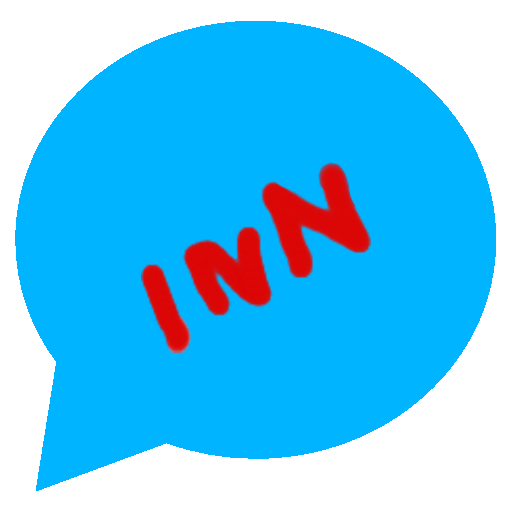
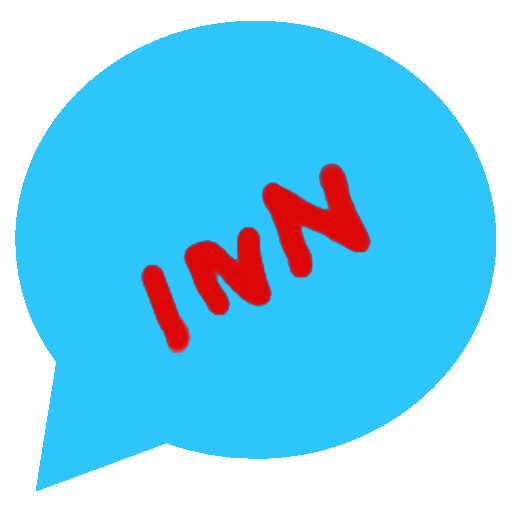
to pull

diff --git a/src/pages/Home.jsx b/src/pages/Home.jsx
@@ -376,7 +376,7 @@ class Home extends React.Component {
                 <path
                   ref={this.blob1Ref}
                   d="M130.3 -177.5C162.6 -155.8 178.3 -109.4 187.9 -64.7C197.5 -19.9 201 23.3 191 64.5C181 105.8 157.5 145.1 123.4 165.3C89.3 185.5 44.7 186.5 -1.9 189.1C-48.4 191.6 -96.8 195.7 -129.3 175C-161.8 154.3 -178.4 108.8 -184.5 65.7C-190.5 22.6 -186.1 -18.2 -175 -58.3C-164 -98.4 -146.4 -137.8 -116.1 -160.1C-85.8 -182.4 -42.9 -187.7 3 -191.9C49 -196.1 98 -199.2 130.3 -177.5"
-                  fill="#10729c"
+                  fill="#00567A"
                 ></path>
               </g>
               <g transform="translate(247.56402926342417 258.2278953128172)">
@@ -384,7 +384,7 @@ class Home extends React.Component {
                   ref={this.blob2Ref}
                   style={{ visibility: 'hidden' }}
                   d="M118 -161.2C155.2 -135.3 189.4 -104 203.4 -65.1C217.5 -26.2 211.5 20.3 198.7 66.1C185.9 111.9 166.4 157.1 132.2 177.2C98 197.3 49 192.4 2.6 188.8C-43.7 185.1 -87.4 182.8 -123.7 163.3C-160 143.9 -188.9 107.3 -200.5 66.4C-212.1 25.4 -206.4 -19.9 -190.9 -60.4C-175.5 -100.9 -150.4 -136.6 -116.9 -163.7C-83.5 -190.9 -41.7 -209.4 -0.7 -208.5C40.4 -207.6 80.7 -187.1 118 -161.2"
-                  fill="#10729c"
+                  fill="#00567A"
                 ></path>
               </g>
             </svg>
@@ -406,12 +406,12 @@ class Home extends React.Component {
                 <div className="floatingLogoSection">
                   <img alt="logoFloating" src={logo}></img>
                   <div className="floatingButtons">
-                    <Button
+                    <Button style={{width: 85, margin: '.8rem'}}
                       onClick={() => this.setState({ displayInblob: 'login' })}
                     >
                       Log in
                     </Button>
-                    <Button
+                    <Button style={{width: 85, margin: '.8rem'}}
                       onClick={() => this.setState({ displayInblob: 'signup' })}
                     >
                       Sign up

diff --git a/src/pages/Messenger/Messenger.jsx b/src/pages/Messenger/Messenger.jsx
@@ -48,11 +48,10 @@ class Messenger extends Component {
     }
 
     componentDidUpdate(prevProps, prevState){
-        console.log(this.isLoading )
         if(!this.props.messengerContext.currentRoom) return 
 
         if(this.isLoading) return
-        console.log(this.isLoading, 'ISLOADING')
+
        this.scrollChatRef.current.scrollTop = this.scrollChatRef.current.scrollHeight //so it scrolls down to the last message 
     }
 
@@ -64,7 +63,7 @@ class Messenger extends Component {
     }
 
     async openRoom(room){
-        console.log('OPEN ROOM')
+
         this.isLoading = false
         try{
             await this.props.messengerContext.openRoom(room)
@@ -109,9 +108,8 @@ class Messenger extends Component {
         let newFriend = null
 
         try{
-            console.log(this.state.newFriend)
             newFriend = await apiHandler.getUserByMail(this.state.newFriend)
-            console.log(newFriend)
+
             if(!newFriend.length){
 
                 this.setState({
@@ -175,7 +173,7 @@ class Messenger extends Component {
             if(providerLoading === 'done') return this.isLoading = 'done'
         }
         catch(err){
-            console.log(err)
+            console.error(err)
         }
 
         
@@ -224,7 +222,7 @@ class Messenger extends Component {
                 <div className="chatBox">
                     {!this.props.messengerContext.messages ? '' : (
                         <div className="chatBoxMessages" ref={this.scrollChatRef} onScroll={this.loadMessages}>
-                            <div className="chatBoxMessagesWrapper">
+                            <div className="chatBoxMessagesWrapper" >
                                 {this.props.messengerContext.messages.map((message, index) => {
                                     return (
                                         <Message key={index} message={message}/>

diff --git a/src/components/MessengerCtx/MessengerProvider.jsx b/src/components/MessengerCtx/MessengerProvider.jsx
@@ -79,10 +79,9 @@ class MessengerProvider extends Component {
         this.socket.on('receive', async data => {
             //if someone new send you a message, add a new room to your rooms
             if(!this.state.rooms.find(r => r._id === data.room._id)){
-                console.log('SET NEW ROOM', data.room)
                 this.setState({rooms : [...this.state.rooms, data.room]})
             }
-            console.log(this.state.currentRoom)
+
             if(this.state.currentRoom && this.state.currentRoom?.members.find(m => m._id === data.senderId)){
                 
                 const receivedMessage = 
@@ -93,7 +92,6 @@ class MessengerProvider extends Component {
                         content : data.content,
                         createdAt: Date.now()
                     }
-             
                 this.setState({
                     messages: [...this.state.messages, receivedMessage],
                 })
@@ -185,8 +183,7 @@ class MessengerProvider extends Component {
 
     async loadMessages(callback){
         const olderMessages = await apiHandler.getMessages(this.state.currentRoom._id, this.state.messages.length - 1, 30)
-        console.log('PROVIDER LOAD')
-
+ 
         if(!olderMessages.length) return 'done'
         
         this.setState({

diff --git a/src/pages/Messenger/Messenger.css b/src/pages/Messenger/Messenger.css
@@ -12,7 +12,7 @@
     padding: 1rem 2rem; 
     border-radius: .5rem;
     z-index: 10;
-    border: solid 1px #007cb1;
+    border: solid 1px var(--mainLightBlueColorHover);
 }
 
 .roomsList {
@@ -76,7 +76,7 @@
 }
 
 .chatBoxInput:focus {
-  border-top: solid 1px #00b4ff;
+  border-top: solid 1px var(--mainLightBlueColor);
 }
 
 .chatBoxMessagesWrapper {
@@ -138,7 +138,7 @@
 
 .addFriendInput:focus {
   border: none;
-  border-bottom: solid 1px #00b4ff;
+  border-bottom: solid 1px var(--mainLightBlueColor);
 }
 
 .errorMsg {
@@ -152,7 +152,7 @@
   position: absolute;
   top: .8rem;
   right: .8rem;
-  background-color: #00B4FF;
+  background-color: var(--mainLightBlueColor);
   width: 1.5rem;
   height: 1.5rem;
   border-radius: 4px;

diff --git a/src/components/Base/Button/Button.css b/src/components/Base/Button/Button.css
@@ -1,5 +1,5 @@
 .Button{
-    background-color: #00B4FF;
+    background-color: var(--mainLightBlueColor);
     padding: .375rem .75rem;
     margin:0.1rem;
     border-radius: 0.25rem;
@@ -9,6 +9,8 @@
     font-size: 1rem;
     line-height: 1.5rem;
     transition: all 0.2s ease-in-out;
+    text-align: center;
+    vertical-align: middle;
 }
 
 .Button:hover{
@@ -17,7 +19,7 @@
 }
 
 .Button:disabled {
-    background-color: #557a8a;
+    background-color: var(--mainLightBlueColorHover);
     color:#86a1be
 
 }

diff --git a/src/components/Forms/FormSignin.jsx b/src/components/Forms/FormSignin.jsx
@@ -82,7 +82,7 @@ class FormSignin extends Component {
             {this.state.error && "Wrong Credentials"}
           </div>
 
-          <Button>Sign In</Button>
+          <Button>Log In</Button>
         </Form>
         <div className="passports">
             <a href={process.env.REACT_APP_GOOGLE_CALLBACK}>

diff --git a/src/components/Forms/FormSign.css b/src/components/Forms/FormSign.css
@@ -62,7 +62,7 @@
     position: absolute;
     top: 2.5rem;
     right: .5rem;
-    background-color: #00B4FF;
+    background-color: var(--mainLightBlueColor);
     width: 1.5rem;
     height: 1.5rem;
     border-radius: 4px;

diff --git a/src/styles/global.css b/src/styles/global.css
@@ -1,5 +1,5 @@
 :root {
-  --mainLightBlueColor: #00b4ff;
+  --mainLightBlueColor: #2BC5FA;
   --mainLightBlueColorHover: #007cb1;
   --cadetBlue: #35a4b2;
   --blueMansel: #008b9c;

diff --git a/src/pages/Messenger/Message/Message.css b/src/pages/Messenger/Message/Message.css
@@ -32,7 +32,7 @@
 }
 
 .messageContent.mine{
-    background-color: #00B4FF;
+    background-color: var(--mainLightBlueColor);
 }
 
 .messageTimer{
